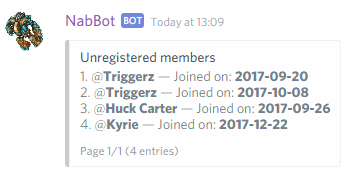
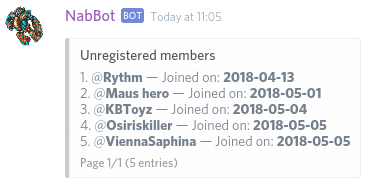
Added missing documentation for commands

Changed region(s): [[0.1719, 0.2, 0.9742, 0.9714], [0.1719, 0.0286, 0.659, 0.1714], [0.0, 0.0286, 0.1433, 0.2857]]

diff --git a/cogs/mod.py b/cogs/mod.py
@@ -163,11 +163,11 @@ class Mod:
     @checks.is_mod()
     @commands.command()
     async def unignore(self, ctx, *, channel: discord.TextChannel = None):
-        """Makes teh bot unignore a channel
+        """Makes the bot unignore a channel
 
         Ignored channels don't process commands. However, the bot may still announce deaths and level ups if needed.
 
-        If the parameter is used with no parameters, it ignores the current channel."""
+        If the parameter is used with no parameters, it unignores the current channel."""
         if channel is None:
             channel = ctx.channel
 

diff --git a/cogs/owner.py b/cogs/owner.py
@@ -402,7 +402,7 @@ class Owner:
                     return
 
                 # Check if new name was already registered
-                c.execute("SELECT * FROM chars WHERE name LIKE ?", (new_char["name"],))
+                c.execute("SELECT * FROM chars WHERE name LIKE ?", (new_char.name,))
                 new_char_db = c.fetchone()
 
                 if new_char_db is None:

diff --git a/docs/commands/mod.md b/docs/commands/mod.md
@@ -1,0 +1,56 @@
+This commands can only be used by the server's owner and users with the `Manage Channels` permission.
+
+!!! info
+    Words in italics are parameters.  
+    Parameters enclosed in brackets `[]` are optional.
+
+## /makesay
+**Syntax:** /makesay [*message*]
+
+Makes the bot say a message. This command can be used in two ways.
+
+If you use this command on any channel, NabBot will delete your original message and then repeat it itself.
+Note that the bot requries `Manage Messages` permissions in that channel in order to use it effectively.
+
+Bot owners can use this command on private messages in a more discrete way.
+After using `/makesay Some message`, the bot will look for all the channels it shares with the command author, and where both can
+send messages. The bot will display the list, numbering each channel.  
+The command user must then respond with the number of the channel where they want NabBot to relay the message to.
+Alternatively, they can cancel the operation replying with `0`. The bot will confirm that the message was delivered.
+
+----
+
+## /unregistered
+Shows a list of discord users that have no registered characters.
+
+??? Summary "Example"
+
+    **/unregistered**  
+    ![image](../assets/images/commands/unregistered.png)
+
+----
+
+## /ignore
+**Syntax:** /ignore [*channel*]
+
+Makes the bot ignore commands in a channel. This allows you to have a channel where the bot can still make announcements but
+he won't respond to any commands.
+
+If the command is used with no parameters, the current channel will be ignored, otherwise, the specified channel will be looked for.
+
+Administrators can bypass this.
+
+### /ignore list
+Shows a list of the currently ignored channels in the server.
+
+
+----
+
+## /unignore
+**Syntax:** /unignore [*channel*]
+
+Makes the bot listen to commands in this channel again.
+
+If the command is used with no parameters, the current channel will be unignored, otherwise, the specified channel will be looked for.
+
+----

diff --git a/docs/commands/owner.md b/docs/commands/owner.md
@@ -103,3 +103,44 @@ Messages contain a signature to indicate who wrote the message.
     
     **After typing the message.**  
     ![image](../assets/images/commands/admins_message_2.png)
+
+----
+
+## /merge
+**Syntax**: /merge *old_world new_world*
+
+Renames all instances of *old_world* to *new_world*. This is to be used when any worlds NabBot is tracking is going to be merged.
+
+This command will update all references of the old world to the new world, so it can continue tracking level ups and deaths in the new world.
+
+This should be done as soon as the world is merged. It is recommended to use it right at the server save before the merge.
+
+??? Summary "Example"
+
+    **/merge Fidera Gladera**  
+    ![image](../assets/images/commands/merge.png)
+    
+----
+
+## /namelock
+**Syntax**: /namelock *old_name*,*new_name*  
+**Other aliases**: /rename, /namechange
+
+When a character is renamed using a namechange from the store, NabBot updates the references automatically.
+However, when a character is namelocked, all previous references to the old name are gone, like the character was deleted.
+
+This makes NabBot stop tracking levels and deaths of the character because it has no way of knowing what the new name is.
+
+If the user assigns the new named character using [/im](tracking.md#im), he will be left with the character with the old name still assigned, and the character with the new name.
+
+In order to fix this, this command must be used.
+
+/namelock will check if the old name redirects to a non existent character to confirm it was namelocked, and will check the new name.
+If all conditions are met, their entries will be merged into one.
+
+**Conditions:**
+
+- The old name must exist in NabBot's characters database.
+- The old name must not be a valid character in Tibia.com
+- The new name must be a valid character in Tibia.com
+- They must have the same vocation, not considering promotions.

diff --git a/docs/commands/tracking.md b/docs/commands/tracking.md
@@ -14,6 +14,8 @@ Registered characters have their deaths and level ups announced on the chat.
 The bot will skip characters on different worlds than the world the discord server tracks.
 Also, if it finds a character owned by another user, the whole process will be stopped.
 
+If a character is already registered to someone else, [/claim](#claim) can be used.
+
 ??? Summary "Example"
 
     **/im Elf**  
@@ -30,6 +32,22 @@ Unregisters a character you previously registered.
   
     **/imnot tomas haake**  
     ![image](../assets/images/commands/imnot.png)
+
+----
+
+## /claim
+**Syntax:** /claim *characterName*
+
+Claims a character as yours, even if it is already registered to someone else.
+
+In order for this to work, you have to put a special code in the character's comment.
+You can see this code by using the command with no parameters. The code looks like this: `/NB-23FC13AC7400000/`
+
+Once you had set the code, you can use the command with that character, if the code matches, it will be reassigned to you.
+Note that it may take some time for the code to be visible to NabBot because of caching.
+
+This code is unique for your discord user, so the code will only work for your discord account and no one else.
+No one can claim a character of yours unless you put **their** code on your character's comment.
 
 ----
 

diff --git a/docs/commands/tibia.md b/docs/commands/tibia.md
@@ -274,8 +274,8 @@ Displays information about a world like pvp type, online count, location and mor
  
 ---
 
-## news
-**Syntax:** news [*article_id*]
+## /news
+**Syntax:** /news [*article_id*]
 
 Displays a list of recent news and articles. Or if an article id is provided, a summary of that article is displayed.
 
@@ -326,6 +326,23 @@ For players over level 100, it will also display the cost of the Blessing of the
     **/bless 140**  
     ![image](../assets/images/commands/bless_2.png)
 
+
+----
+
+## /stamina
+**Syntax:** /stamina *current_stamina*
+
+Tells you how much time you have to be offline in order to regain full stamina. You must input your current stamina in this format: `hh:mm`.
+
+At the bottom, you can tell the time in your local timezone in which you would have full stamina if you logout now.
+
+??? Summary "Examples"
+  
+    **/stamina 39:00**  
+    ![image](../assets/images/commands/stamina_1.png)
+    
+    **/stamina 28:32**  
+    ![image](../assets/images/commands/stamina_2.png)
 
 ----
 

diff --git a/docs/commands/tibiawiki.md b/docs/commands/tibiawiki.md
@@ -5,9 +5,9 @@ Information is read from `tibia_database.sql`, which is generated from [tibiawik
     Words in italics are parameters.  
 
 
-## /itemprice
-**Syntax:** /itemprice *name*  
-**Other aliases:** /checkprice, /item
+## /item
+**Syntax:** /item *name*  
+**Other aliases:** /checkprice, /itemprice
 
 Shows information about an item, their attributes, NPCs that buy and/or sell it (only for the best price), and creatures that drop it and quest where it's given as reward.
 
